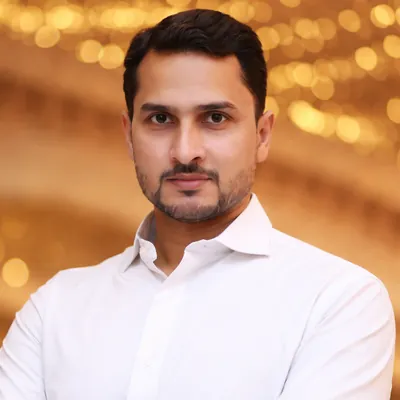
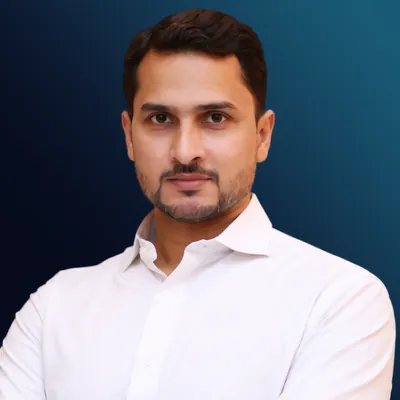
Swap headshot to navy-gradient version (?v=2 cache-bust); replace Fortune 500 claims with neutral wording

diff --git a/blog-post-2.html b/blog-post-2.html
@@ -69,7 +69,7 @@
    "alternateName": "Syed Masood Raza Kazmi",
    "jobTitle": "IAM Architect",
    "url": "https://identityfrontline.com/about/masood-raza/",
-   "image": "https://identityfrontline.com/assets/img/masood-raza-800.jpg",
+   "image": "https://identityfrontline.com/assets/img/masood-raza-800.jpg?v=2",
    "sameAs": [
     "https://www.linkedin.com/in/masoodrazaa",
     "https://x.com/masoodrazaaa",
@@ -292,8 +292,8 @@ img.author-photo{object-fit:cover;padding:0;display:block;background:#0e1730}
 <header class="post-hero">
   <div class="post-meta-row"><span class="post-cat">Hands-On Lab</span><span class="post-date">June 2026</span><span class="post-read">25 min read</span></div>
   <h1>Build Your IAM Homelab<br><em>For Free: The Complete Guide</em></h1>
-  <p class="post-subtitle">Deploy Active Directory, connect it to Entra ID, configure Conditional Access and MFA, and build the exact hybrid identity environment that Fortune 500 companies run — all on a free Azure account. This is the lab that gets you hired.</p>
-  <div class="author-row"><img class="author-avatar author-photo" src="/assets/img/masood-raza-128.webp" width="44" height="44" alt="Masood Raza" decoding="async"><div class="author-info"><a class="author-name" href="/about/masood-raza/" rel="author">By Masood Raza</a><span class="author-title">IAM Architect · 24+ years · Fortune 500 SME</span></div></div>
+  <p class="post-subtitle">Deploy Active Directory, connect it to Entra ID, configure Conditional Access and MFA, and build the same hybrid identity pattern that enterprises run in production — all on a free Azure account. This is the lab that gets you hired.</p>
+  <div class="author-row"><img class="author-avatar author-photo" src="/assets/img/masood-raza-128.webp?v=2" width="44" height="44" alt="Masood Raza" decoding="async"><div class="author-info"><a class="author-name" href="/about/masood-raza/" rel="author">By Masood Raza</a><span class="author-title">IAM Architect · 24+ years · Microsoft Entra ID focus</span></div></div>
 </header>
 
 <div class="post-layout">
@@ -301,7 +301,7 @@ img.author-photo{object-fit:cover;padding:0;display:block;background:#0e1730}
 
 <p class="lead">In my <a href="blog-post-1.html" style="color:var(--teal)">first post</a>, I told you to "deploy Active Directory in your lab." I did not show you how. This post fixes that.</p>
 
-<p>What you are about to build is not a toy. It is a scaled-down version of the exact hybrid identity architecture that I have deployed for Fortune 500 companies — an on-premises Active Directory domain synchronised to Microsoft Entra ID, with Conditional Access, MFA, and user lifecycle management.</p>
+<p>What you are about to build is not a toy. It is a scaled-down version of the hybrid identity architecture that I have deployed in enterprise environments — an on-premises Active Directory domain synchronised to Microsoft Entra ID, with Conditional Access, MFA, and user lifecycle management.</p>
 
 <p>The difference? You are building it for free. Everything in this guide uses either free Azure credits, free evaluation licences, or permanently free tiers.</p>
 
@@ -574,7 +574,7 @@ Add-ADGroupMember -Identity "SG-Cloud-Admins" -Members "psharma", "dlee"</div>
 
 <div class="pull-quote">"The lab is where theory becomes muscle memory. When an interviewer asks 'Have you configured Conditional Access?' your answer is not 'I studied it.' Your answer is 'I built it.'"</div>
 
-<p>Go build it. The Azure free account takes 5 minutes. Your first domain controller takes 30 minutes. By tonight, you can have a working hybrid identity environment that matches what Fortune 500 companies run.</p>
+<p>Go build it. The Azure free account takes 5 minutes. Your first domain controller takes 30 minutes. By tonight, you can have a working hybrid identity environment that mirrors what enterprises run in production.</p>
 
 <p><strong>That is not a hobby project. That is a career.</strong></p>
 <aside class="learn-box" aria-label="Further reading on Microsoft Learn"><div class="learn-box-label">Learn more on Microsoft Learn</div><ul><li><a href="https://learn.microsoft.com/en-us/entra/identity/hybrid/connect/whatis-azure-ad-connect" target="_blank" rel="noopener">What is Microsoft Entra Connect?</a></li><li><a href="https://learn.microsoft.com/en-us/entra/identity/conditional-access/overview" target="_blank" rel="noopener">What is Conditional Access?</a></li><li><a href="https://learn.microsoft.com/en-us/entra/identity/authentication/tutorial-enable-azure-mfa" target="_blank" rel="noopener">Tutorial: Secure user sign-in events with Microsoft Entra multifactor authentication</a></li><li><a href="https://learn.microsoft.com/en-us/entra/identity/authentication/tutorial-enable-sspr" target="_blank" rel="noopener">Tutorial: Enable self-service password reset</a></li></ul><p class="learn-box-note">Official Microsoft documentation for the features used in this guide.</p></aside>
@@ -606,7 +606,7 @@ Add-ADGroupMember -Identity "SG-Cloud-Admins" -Members "psharma", "dlee"</div>
 
 <div class="sidebar-widget"><div class="sidebar-widget-title">Start here first</div><div class="sidebar-widget-body"><a href="blog-post-1.html" style="display:block;text-decoration:none;color:var(--ink);font-size:13px;font-weight:500;margin-bottom:6px">No Job, No Experience, No Problem: How to Break Into IAM in 2026</a><span style="font-family:'JetBrains Mono',monospace;font-size:9px;letter-spacing:.1em;text-transform:uppercase;color:var(--muted)">Career Guide · 18 min</span></div></div>
 
-<div class="sidebar-widget"><div class="sidebar-widget-title">About the author</div><div style="padding:16px"><img class="author-avatar author-photo" src="/assets/img/masood-raza-128.webp" width="52" height="52" alt="Masood Raza" loading="lazy" decoding="async" style="width:52px;height:52px;margin-bottom:12px"><div style="font-size:14px;font-weight:500;color:var(--ink);margin-bottom:2px">Syed Masood Raza</div><div style="font-family:'JetBrains Mono',monospace;font-size:9px;letter-spacing:.1em;text-transform:uppercase;color:var(--teal);margin-bottom:10px">IAM Architect · Cybersecurity SME</div><p style="font-size:12px;font-weight:300;color:var(--muted);line-height:1.6">24+ years building hybrid identity for Fortune 500 companies. AZ-305, SC-300, ISC2 CC, MCT.</p><a class="author-more" href="/about/masood-raza/">Full bio &amp; links &rarr;</a></div></div>
+<div class="sidebar-widget"><div class="sidebar-widget-title">About the author</div><div style="padding:16px"><img class="author-avatar author-photo" src="/assets/img/masood-raza-128.webp?v=2" width="52" height="52" alt="Masood Raza" loading="lazy" decoding="async" style="width:52px;height:52px;margin-bottom:12px"><div style="font-size:14px;font-weight:500;color:var(--ink);margin-bottom:2px">Syed Masood Raza</div><div style="font-family:'JetBrains Mono',monospace;font-size:9px;letter-spacing:.1em;text-transform:uppercase;color:var(--teal);margin-bottom:10px">IAM Architect · Cybersecurity SME</div><p style="font-size:12px;font-weight:300;color:var(--muted);line-height:1.6">24+ years building hybrid identity for enterprises. AZ-305, SC-300, ISC2 CC, MCT.</p><a class="author-more" href="/about/masood-raza/">Full bio &amp; links &rarr;</a></div></div>
 </aside>
 </div>
 

diff --git a/blog-post-1.html b/blog-post-1.html
@@ -69,7 +69,7 @@
    "alternateName": "Syed Masood Raza Kazmi",
    "jobTitle": "IAM Architect",
    "url": "https://identityfrontline.com/about/masood-raza/",
-   "image": "https://identityfrontline.com/assets/img/masood-raza-800.jpg",
+   "image": "https://identityfrontline.com/assets/img/masood-raza-800.jpg?v=2",
    "sameAs": [
     "https://www.linkedin.com/in/masoodrazaa",
     "https://x.com/masoodrazaaa",
@@ -680,10 +680,10 @@ img.author-photo{object-fit:cover;padding:0;display:block;background:#0e1730}
   <h1>No Job, No Experience, No Problem:<br><em>How to Break Into IAM in 2026</em></h1>
   <p class="post-subtitle">A practical, zero-fluff guide for career changers, recent graduates, and IT generalists who want to build a real, high-paying career in Identity and Access Management — starting from exactly where they are right now.</p>
   <div class="author-row">
-    <img class="author-avatar author-photo" src="/assets/img/masood-raza-128.webp" width="44" height="44" alt="Masood Raza" decoding="async">
+    <img class="author-avatar author-photo" src="/assets/img/masood-raza-128.webp?v=2" width="44" height="44" alt="Masood Raza" decoding="async">
     <div class="author-info">
       <a class="author-name" href="/about/masood-raza/" rel="author">By Masood Raza</a>
-      <span class="author-title">IAM Architect · 24+ years · Fortune 500 SME</span>
+      <span class="author-title">IAM Architect · 24+ years · Microsoft Entra ID focus</span>
     </div>
   </div>
 </header>
@@ -698,7 +698,7 @@ img.author-photo{object-fit:cover;padding:0;display:block;background:#0e1730}
 
     <p>If you are reading this because you are unemployed, under-employed, or stuck in an IT role that is going nowhere — you are in exactly the right place at exactly the right time. Identity and Access Management is one of the fastest-growing and most under-staffed specialisations in all of enterprise technology. Companies are desperate for people who understand it. And unlike most high-paying tech careers, IAM does not require a computer science degree, years of software development, or a stack of expensive certifications before you can get your first role.</p>
 
-    <p>I have spent 24 years building and securing identity infrastructure for organisations ranging from regional businesses to Fortune 500 companies. In that time, I have interviewed and mentored dozens of IAM professionals. The single most common thing I hear from people who successfully broke into the field is: <strong>"I had no idea this was even possible for someone like me."</strong></p>
+    <p>I have spent 24 years building and securing identity infrastructure for organisations ranging from regional businesses to large enterprises. In that time, I have interviewed and mentored dozens of IAM professionals. The single most common thing I hear from people who successfully broke into the field is: <strong>"I had no idea this was even possible for someone like me."</strong></p>
 
     <p>This post is for you. By the end of it, you will understand exactly what IAM is, why the market is so hungry for talent, what the realistic entry paths look like, and — most importantly — what you should do in the next 90 days to position yourself for your first IAM role.</p>
 
@@ -911,7 +911,7 @@ img.author-photo{object-fit:cover;padding:0;display:block;background:#0e1730}
     <div class="pull-quote">"The window of entry is open. In 12–18 months, it may be narrower as more people discover what you are reading right now. The best time to start was two years ago. The second best time is today."</div>
 <aside class="learn-box" aria-label="Further reading on Microsoft Learn"><div class="learn-box-label">Learn more on Microsoft Learn</div><ul><li><a href="https://learn.microsoft.com/en-us/entra/fundamentals/what-is-entra" target="_blank" rel="noopener">What is Microsoft Entra?</a></li><li><a href="https://learn.microsoft.com/en-us/training/paths/describe-capabilities-of-microsoft-identity-access/" target="_blank" rel="noopener">Training path: Describe the capabilities of Microsoft Entra ID (SC-900)</a></li><li><a href="https://learn.microsoft.com/en-us/credentials/certifications/security-compliance-and-identity-fundamentals/" target="_blank" rel="noopener">Microsoft Certified: Security, Compliance, and Identity Fundamentals</a></li><li><a href="https://learn.microsoft.com/en-us/credentials/certifications/identity-and-access-administrator/" target="_blank" rel="noopener">Microsoft Certified: Identity and Access Administrator Associate (SC-300)</a></li></ul><p class="learn-box-note">Official Microsoft documentation for the features used in this guide.</p></aside>
     <p>— <strong>Masood</strong></p>
-    <p style="font-size:13px;color:var(--muted);">IAM Architect · SME to Fortune 500 companies · identityfrontline.com</p>
+    <p style="font-size:13px;color:var(--muted);">IAM Architect · 24+ years · identityfrontline.com</p>
 
   </article>
 
@@ -965,10 +965,10 @@ img.author-photo{object-fit:cover;padding:0;display:block;background:#0e1730}
     <div class="sidebar-widget">
       <div class="sidebar-widget-title">About the author</div>
       <div class="author-widget">
-        <img class="author-widget-avatar author-photo" src="/assets/img/masood-raza-128.webp" width="52" height="52" alt="Masood Raza" loading="lazy" decoding="async">
+        <img class="author-widget-avatar author-photo" src="/assets/img/masood-raza-128.webp?v=2" width="52" height="52" alt="Masood Raza" loading="lazy" decoding="async">
         <div class="author-widget-name">Syed Masood Raza</div>
         <div class="author-widget-role">IAM Architect · Cybersecurity SME</div>
-        <p class="author-widget-bio">24+ years securing identity infrastructure for Fortune 500 companies across North America, Europe, and the Gulf. AZ-305, SC-300, ISC2 CC, MCT.</p><a class="author-more" href="/about/masood-raza/">Full bio &amp; links &rarr;</a>
+        <p class="author-widget-bio">24+ years securing enterprise identity infrastructure across North America, Europe, and the Gulf. AZ-305, SC-300, ISC2 CC, MCT.</p><a class="author-more" href="/about/masood-raza/">Full bio &amp; links &rarr;</a>
       </div>
     </div>
 

diff --git a/about.html b/about.html
@@ -50,7 +50,7 @@
    "alternateName": "Syed Masood Raza Kazmi",
    "jobTitle": "IAM Architect",
    "url": "https://identityfrontline.com/about/masood-raza/",
-   "image": "https://identityfrontline.com/assets/img/masood-raza-800.jpg",
+   "image": "https://identityfrontline.com/assets/img/masood-raza-800.jpg?v=2",
    "sameAs": [
     "https://www.linkedin.com/in/masoodrazaa",
     "https://x.com/masoodrazaaa",
@@ -588,15 +588,15 @@ body {
 }
 .author-bio p strong { color: #fff; font-weight: 500; }
 
-/* Fortune 500 bar */
-.f500-bar {
+/* Experience bar */
+.exp-bar {
   margin: 32px 0;
   padding: 22px 24px;
   background: rgba(139,0,85,0.08);
   border: 1px solid rgba(139,0,85,0.2);
   border-radius: 4px;
 }
-.f500-bar-label {
+.exp-bar-label {
   font-family: 'JetBrains Mono', monospace;
   font-size: 9px;
   letter-spacing: 0.16em;
@@ -604,14 +604,14 @@ body {
   color: var(--teal);
   margin-bottom: 10px;
 }
-.f500-bar p {
+.exp-bar p {
   font-size: 15px;
   font-weight: 300;
   color: rgba(255,255,255,0.72) !important;
   line-height: 1.65 !important;
   margin: 0 !important;
 }
-.f500-bar p strong { color: #fff !important; }
+.exp-bar p strong { color: #fff !important; }
 
 /* Skills grid */
 .skills-section {
@@ -897,8 +897,8 @@ footer {
   .cert-item { font-size: 9px; padding: 5px 10px; }
   .author-h2 { font-size: clamp(30px, 8vw, 44px); }
   .author-bio p { font-size: 15px; }
-  .f500-bar { padding: 16px 18px; }
-  .f500-bar p { font-size: 14px !important; }
+  .exp-bar { padding: 16px 18px; }
+  .exp-bar p { font-size: 14px !important; }
 
   /* Skills */
   .skills-section { padding: 56px 20px; }
@@ -1016,7 +1016,7 @@ p.if-sub-note.if-sub-note{font:400 12px/1.5 'DM Sans',sans-serif;color:rgba(255,
       <span class="accent">identity.</span>
     </h1>
     <p class="hero-lead">
-      Practitioner-grade writing on IAM, Zero Trust, and enterprise cybersecurity — grounded in 24+ years of hands-on work protecting the identity infrastructure of the world's largest organisations.
+      Practitioner-grade writing on IAM, Zero Trust, and enterprise cybersecurity — grounded in 24+ years of hands-on work protecting enterprise identity infrastructure.
     </p>
     <a href="#mission" class="hero-cta">
       Read the mission
@@ -1071,8 +1071,8 @@ p.if-sub-note.if-sub-note{font:400 12px/1.5 'DM Sans',sans-serif;color:rgba(255,
         <span class="h-stat-l">Years in enterprise IT</span>
       </div>
       <div class="h-stat">
-        <span class="h-stat-n">F500</span>
-        <span class="h-stat-l">Clients served</span>
+        <span class="h-stat-n">Entra</span>
+        <span class="h-stat-l">Microsoft Entra ID focus</span>
       </div>
       <div class="h-stat">
         <span class="h-stat-n">8</span>
@@ -1157,7 +1157,7 @@ p.if-sub-note.if-sub-note{font:400 12px/1.5 'DM Sans',sans-serif;color:rgba(255,
 <section class="author-section reveal" id="about">
   <div class="author-inner">
     <div class="author-card">
-      <picture><source type="image/webp" srcset="/assets/img/masood-raza-400.webp 400w, /assets/img/masood-raza-800.webp 800w" sizes="180px"><img class="avatar-ring author-photo" src="/assets/img/masood-raza-400.jpg" srcset="/assets/img/masood-raza-400.jpg 400w, /assets/img/masood-raza-800.jpg 800w" sizes="180px" width="180" height="180" alt="Masood Raza" loading="lazy" decoding="async"></picture>
+      <picture><source type="image/webp" srcset="/assets/img/masood-raza-400.webp?v=2 400w, /assets/img/masood-raza-800.webp?v=2 800w" sizes="180px"><img class="avatar-ring author-photo" src="/assets/img/masood-raza-400.jpg?v=2" srcset="/assets/img/masood-raza-400.jpg?v=2 400w, /assets/img/masood-raza-800.jpg?v=2 800w" sizes="180px" width="180" height="180" alt="Masood Raza" loading="lazy" decoding="async"></picture>
       <p class="a-name">Syed Masood<br>Raza Kazmi</p>
       <p class="a-role">IAM Architect · Cybersecurity SME</p>
       <div class="cert-stack">
@@ -1180,10 +1180,10 @@ p.if-sub-note.if-sub-note{font:400 12px/1.5 'DM Sans',sans-serif;color:rgba(255,
           I am an <strong>Identity & Access Management Architect and Cybersecurity Subject Matter Expert</strong> with over two decades of hands-on experience securing the identity infrastructure of enterprise organisations across North America, Europe, and the Gulf region.
         </p>
 
-        <div class="f500-bar">
-          <p class="f500-bar-label">Fortune 500 experience</p>
+        <div class="exp-bar">
+          <p class="exp-bar-label">Enterprise experience</p>
           <p>
-            Throughout my career I have served as a <strong>trusted SME and technical advisor to Fortune 500 companies</strong>, leading high-stakes IAM and cloud security programmes at a scale that few practitioners encounter. These engagements have spanned financial services, healthcare, energy, and technology sectors — industries where identity failures carry regulatory, financial, and reputational consequences that are simply not acceptable.
+            Throughout my career I have worked as a <strong>subject-matter expert and technical advisor on enterprise IAM and cloud security programmes</strong>. These engagements have spanned financial services, healthcare, energy, and technology sectors — industries where identity failures carry regulatory, financial, and reputational consequences that are simply not acceptable.
           </p>
         </div>
 

diff --git a/blog-post-3.html b/blog-post-3.html
@@ -69,7 +69,7 @@
    "alternateName": "Syed Masood Raza Kazmi",
    "jobTitle": "IAM Architect",
    "url": "https://identityfrontline.com/about/masood-raza/",
-   "image": "https://identityfrontline.com/assets/img/masood-raza-800.jpg",
+   "image": "https://identityfrontline.com/assets/img/masood-raza-800.jpg?v=2",
    "sameAs": [
     "https://www.linkedin.com/in/masoodrazaa",
     "https://x.com/masoodrazaaa",
@@ -305,7 +305,7 @@ img.author-photo{object-fit:cover;padding:0;display:block;background:#0e1730}
   <div class="post-meta-row"><span class="post-cat">Hands-On Lab</span><span class="post-date">July 2026</span><span class="post-read">20 min read</span></div>
   <h1>Entra ID SSO and SCIM Provisioning<br><em>to AWS IAM Identity Center</em></h1>
   <p class="post-subtitle">Your homelab users can now sign into AWS with their Entra ID credentials. SAML-based Single Sign-On, user assignment, and SCIM provisioning &mdash; all configured step-by-step. Total cost: still $0.</p>
-  <div class="author-row"><img class="author-avatar author-photo" src="/assets/img/masood-raza-128.webp" width="44" height="44" alt="Masood Raza" decoding="async"><div class="author-info"><a class="author-name" href="/about/masood-raza/" rel="author">By Masood Raza</a><span class="author-title">IAM Architect &middot; 24+ years &middot; Fortune 500 SME</span></div></div>
+  <div class="author-row"><img class="author-avatar author-photo" src="/assets/img/masood-raza-128.webp?v=2" width="44" height="44" alt="Masood Raza" decoding="async"><div class="author-info"><a class="author-name" href="/about/masood-raza/" rel="author">By Masood Raza</a><span class="author-title">IAM Architect &middot; 24+ years &middot; Microsoft Entra ID focus</span></div></div>
 </header>
 
 <div class="post-layout">
@@ -315,7 +315,7 @@ img.author-photo{object-fit:cover;padding:0;display:block;background:#0e1730}
 
 <p>In <a href="blog-post-2.html" style="color:var(--teal)">Post 2</a>, you built a hybrid identity environment &mdash; Active Directory synced to Entra ID via Entra Connect, with Conditional Access and MFA enforced. That was the foundation.</p>
 
-<p>This post adds the feature that enterprise IAM teams configure most often: <strong>Single Sign-On (SSO)</strong>. You will configure SAML-based SSO between your Entra ID tenant and AWS IAM Identity Center, assign your homelab users, and test federated authentication &mdash; the exact workflow I have configured hundreds of times for Fortune 500 clients.</p>
+<p>This post adds the feature that enterprise IAM teams configure most often: <strong>Single Sign-On (SSO)</strong>. You will configure SAML-based SSO between your Entra ID tenant and AWS IAM Identity Center, assign your homelab users, and test federated authentication &mdash; the exact workflow I have configured hundreds of times in enterprise environments.</p>
 
 <p><strong>Why AWS?</strong> Because it is free (AWS free tier), it is the second most common cloud platform after Azure, and configuring cross-cloud SSO between Microsoft and AWS is one of the most sought-after skills in enterprise IAM. This single lab project tells interviewers: &ldquo;I understand federated identity across cloud providers.&rdquo;</p>
 
@@ -565,7 +565,7 @@ lastName:                           user.surname</div>
 <span style="font-family:'JetBrains Mono',monospace;font-size:9px;letter-spacing:.1em;text-transform:uppercase;color:var(--muted)">Career Guide &middot; 18 min</span>
 </div></div>
 
-<div class="sidebar-widget"><div class="sidebar-widget-title">About the author</div><div style="padding:16px"><img class="author-avatar author-photo" src="/assets/img/masood-raza-128.webp" width="52" height="52" alt="Masood Raza" loading="lazy" decoding="async" style="width:52px;height:52px;margin-bottom:12px"><div style="font-size:14px;font-weight:500;color:var(--ink);margin-bottom:2px">Syed Masood Raza</div><div style="font-family:'JetBrains Mono',monospace;font-size:9px;letter-spacing:.1em;text-transform:uppercase;color:var(--teal);margin-bottom:10px">IAM Architect &middot; Cybersecurity SME</div><p style="font-size:12px;font-weight:300;color:var(--muted);line-height:1.6">24+ years building hybrid identity for Fortune 500 companies. Configured SSO for 700+ enterprise applications using SAML, OAuth, and OIDC.</p><a class="author-more" href="/about/masood-raza/">Full bio &amp; links &rarr;</a></div></div>
+<div class="sidebar-widget"><div class="sidebar-widget-title">About the author</div><div style="padding:16px"><img class="author-avatar author-photo" src="/assets/img/masood-raza-128.webp?v=2" width="52" height="52" alt="Masood Raza" loading="lazy" decoding="async" style="width:52px;height:52px;margin-bottom:12px"><div style="font-size:14px;font-weight:500;color:var(--ink);margin-bottom:2px">Syed Masood Raza</div><div style="font-family:'JetBrains Mono',monospace;font-size:9px;letter-spacing:.1em;text-transform:uppercase;color:var(--teal);margin-bottom:10px">IAM Architect &middot; Cybersecurity SME</div><p style="font-size:12px;font-weight:300;color:var(--muted);line-height:1.6">24+ years building hybrid identity for enterprises. Configured SSO for 700+ enterprise applications using SAML, OAuth, and OIDC.</p><a class="author-more" href="/about/masood-raza/">Full bio &amp; links &rarr;</a></div></div>
 </aside>
 </div>
 

diff --git a/blog-post-5.html b/blog-post-5.html
@@ -69,7 +69,7 @@
    "alternateName": "Syed Masood Raza Kazmi",
    "jobTitle": "IAM Architect",
    "url": "https://identityfrontline.com/about/masood-raza/",
-   "image": "https://identityfrontline.com/assets/img/masood-raza-800.jpg",
+   "image": "https://identityfrontline.com/assets/img/masood-raza-800.jpg?v=2",
    "sameAs": [
     "https://www.linkedin.com/in/masoodrazaa",
     "https://x.com/masoodrazaaa",
@@ -319,7 +319,7 @@ img.author-photo{object-fit:cover;padding:0;display:block;background:#0e1730}
   <div class="post-meta-row"><span class="post-cat" style="color:#9B59B6;background:rgba(155,89,182,.12)">Automation</span><span class="post-date">September 2026</span><span class="post-read">20 min read</span></div>
   <h1>Automate the Leaver<br><em>Offboarding Without the Loose Ends</em></h1>
   <p class="post-subtitle">Disabling the account in Active Directory feels like offboarding. It is not. The SSO session can still be alive, the SCIM-synced AWS access can still be active, and the mailbox just goes silent. Build the n8n workflow that closes those gaps automatically, starting within a minute of the disable.</p>
-  <div class="author-row"><img class="author-avatar author-photo" src="/assets/img/masood-raza-128.webp" width="44" height="44" alt="Masood Raza" decoding="async"><div class="author-info"><a class="author-name" href="/about/masood-raza/" rel="author">By Masood Raza</a><span class="author-title">IAM Architect &middot; AI + Security Automation &middot; Fortune 500 SME</span></div></div>
+  <div class="author-row"><img class="author-avatar author-photo" src="/assets/img/masood-raza-128.webp?v=2" width="44" height="44" alt="Masood Raza" decoding="async"><div class="author-info"><a class="author-name" href="/about/masood-raza/" rel="author">By Masood Raza</a><span class="author-title">IAM Architect &middot; 24+ years &middot; Identity automation</span></div></div>
 </header>
 
 <div class="post-layout">
@@ -732,7 +732,7 @@ non-admin role).</div>
 <span style="font-family:'JetBrains Mono',monospace;font-size:9px;letter-spacing:.1em;text-transform:uppercase;color:var(--muted)">Hands-On Lab &middot; 25 min</span>
 </div></div>
 
-<div class="sidebar-widget"><div class="sidebar-widget-title">About the author</div><div style="padding:16px"><img class="author-avatar author-photo" src="/assets/img/masood-raza-128.webp" width="52" height="52" alt="Masood Raza" loading="lazy" decoding="async" style="width:52px;height:52px;margin-bottom:12px"><div style="font-size:14px;font-weight:500;color:var(--ink);margin-bottom:2px">Syed Masood Raza</div><div style="font-family:'JetBrains Mono',monospace;font-size:9px;letter-spacing:.1em;text-transform:uppercase;color:var(--teal);margin-bottom:10px">IAM Architect &middot; AI + Automation</div><p style="font-size:12px;font-weight:300;color:var(--muted);line-height:1.6">24+ years in IAM. Builds n8n automation workflows with AI agents for Fortune 500 companies. 500+ automations deployed.</p><a class="author-more" href="/about/masood-raza/">Full bio &amp; links &rarr;</a></div></div>
+<div class="sidebar-widget"><div class="sidebar-widget-title">About the author</div><div style="padding:16px"><img class="author-avatar author-photo" src="/assets/img/masood-raza-128.webp?v=2" width="52" height="52" alt="Masood Raza" loading="lazy" decoding="async" style="width:52px;height:52px;margin-bottom:12px"><div style="font-size:14px;font-weight:500;color:var(--ink);margin-bottom:2px">Syed Masood Raza</div><div style="font-family:'JetBrains Mono',monospace;font-size:9px;letter-spacing:.1em;text-transform:uppercase;color:var(--teal);margin-bottom:10px">IAM Architect &middot; AI + Automation</div><p style="font-size:12px;font-weight:300;color:var(--muted);line-height:1.6">24+ years in IAM. Builds n8n automation workflows with AI agents for identity teams. 500+ automations deployed.</p><a class="author-more" href="/about/masood-raza/">Full bio &amp; links &rarr;</a></div></div>
 </aside>
 </div>
 

diff --git a/blog-post-4.html b/blog-post-4.html
@@ -69,7 +69,7 @@
    "alternateName": "Syed Masood Raza Kazmi",
    "jobTitle": "IAM Architect",
    "url": "https://identityfrontline.com/about/masood-raza/",
-   "image": "https://identityfrontline.com/assets/img/masood-raza-800.jpg",
+   "image": "https://identityfrontline.com/assets/img/masood-raza-800.jpg?v=2",
    "sameAs": [
     "https://www.linkedin.com/in/masoodrazaa",
     "https://x.com/masoodrazaaa",
@@ -317,7 +317,7 @@ img.author-photo{object-fit:cover;padding:0;display:block;background:#0e1730}
   <div class="post-meta-row"><span class="post-cat" style="color:#9B59B6;background:rgba(155,89,182,.12)">Automation</span><span class="post-date">August 2026</span><span class="post-read">22 min read</span></div>
   <h1>Automate User Lifecycle<br><em>Build Your First n8n Workflow for IAM</em></h1>
   <p class="post-subtitle">Create a user in Active Directory and watch everything happen automatically &mdash; Entra ID sync, welcome email, Teams notification, manager approval, and audit log. Your first IAM automation, powered by n8n. Free.</p>
-  <div class="author-row"><img class="author-avatar author-photo" src="/assets/img/masood-raza-128.webp" width="44" height="44" alt="Masood Raza" decoding="async"><div class="author-info"><a class="author-name" href="/about/masood-raza/" rel="author">By Masood Raza</a><span class="author-title">IAM Architect &middot; AI + Security Automation &middot; Fortune 500 SME</span></div></div>
+  <div class="author-row"><img class="author-avatar author-photo" src="/assets/img/masood-raza-128.webp?v=2" width="44" height="44" alt="Masood Raza" decoding="async"><div class="author-info"><a class="author-name" href="/about/masood-raza/" rel="author">By Masood Raza</a><span class="author-title">IAM Architect &middot; 24+ years &middot; Identity automation</span></div></div>
 </header>
 
 <div class="post-layout">
@@ -699,7 +699,7 @@ Example: ["SG-VPN-Users", "SG-MFA-Enforced"]</div>
 <span style="font-family:'JetBrains Mono',monospace;font-size:9px;letter-spacing:.1em;text-transform:uppercase;color:var(--muted)">Career Guide &middot; 18 min</span>
 </div></div>
 
-<div class="sidebar-widget"><div class="sidebar-widget-title">About the author</div><div style="padding:16px"><img class="author-avatar author-photo" src="/assets/img/masood-raza-128.webp" width="52" height="52" alt="Masood Raza" loading="lazy" decoding="async" style="width:52px;height:52px;margin-bottom:12px"><div style="font-size:14px;font-weight:500;color:var(--ink);margin-bottom:2px">Syed Masood Raza</div><div style="font-family:'JetBrains Mono',monospace;font-size:9px;letter-spacing:.1em;text-transform:uppercase;color:var(--teal);margin-bottom:10px">IAM Architect &middot; AI + Automation</div><p style="font-size:12px;font-weight:300;color:var(--muted);line-height:1.6">24+ years in IAM. Builds n8n automation workflows with AI agents for Fortune 500 companies. 500+ automations deployed.</p><a class="author-more" href="/about/masood-raza/">Full bio &amp; links &rarr;</a></div></div>
+<div class="sidebar-widget"><div class="sidebar-widget-title">About the author</div><div style="padding:16px"><img class="author-avatar author-photo" src="/assets/img/masood-raza-128.webp?v=2" width="52" height="52" alt="Masood Raza" loading="lazy" decoding="async" style="width:52px;height:52px;margin-bottom:12px"><div style="font-size:14px;font-weight:500;color:var(--ink);margin-bottom:2px">Syed Masood Raza</div><div style="font-family:'JetBrains Mono',monospace;font-size:9px;letter-spacing:.1em;text-transform:uppercase;color:var(--teal);margin-bottom:10px">IAM Architect &middot; AI + Automation</div><p style="font-size:12px;font-weight:300;color:var(--muted);line-height:1.6">24+ years in IAM. Builds n8n automation workflows with AI agents for identity teams. 500+ automations deployed.</p><a class="author-more" href="/about/masood-raza/">Full bio &amp; links &rarr;</a></div></div>
 </aside>
 </div>
 

diff --git a/about/masood-raza/index.html b/about/masood-raza/index.html
@@ -52,7 +52,7 @@
    "alternateName": "Syed Masood Raza Kazmi",
    "jobTitle": "IAM Architect",
    "url": "https://identityfrontline.com/about/masood-raza/",
-   "image": "https://identityfrontline.com/assets/img/masood-raza-800.jpg",
+   "image": "https://identityfrontline.com/assets/img/masood-raza-800.jpg?v=2",
    "sameAs": [
     "https://www.linkedin.com/in/masoodrazaa",
     "https://x.com/masoodrazaaa",
@@ -149,7 +149,7 @@ footer{background:var(--nav);padding:28px 52px;display:flex;align-items:center;j
   <h1>Masood Raza</h1>
   <!-- REVIEW(owner): bio below is a draft built from the existing About page. Confirm every line before merge. -->
   <div class="profile">
-    <picture><source type="image/webp" srcset="/assets/img/masood-raza-400.webp 400w, /assets/img/masood-raza-800.webp 800w" sizes="132px"><img class="photo" src="/assets/img/masood-raza-400.jpg" srcset="/assets/img/masood-raza-400.jpg 400w, /assets/img/masood-raza-800.jpg 800w" sizes="132px" width="132" height="132" alt="Masood Raza" loading="eager" decoding="async"></picture>
+    <picture><source type="image/webp" srcset="/assets/img/masood-raza-400.webp?v=2 400w, /assets/img/masood-raza-800.webp?v=2 800w" sizes="132px"><img class="photo" src="/assets/img/masood-raza-400.jpg?v=2" srcset="/assets/img/masood-raza-400.jpg?v=2 400w, /assets/img/masood-raza-800.jpg?v=2 800w" sizes="132px" width="132" height="132" alt="Masood Raza" loading="eager" decoding="async"></picture>
     <div class="profile-body">
       <p class="lede">Identity &amp; access practitioner, focused on Microsoft Entra ID.</p>
       <p>I'm Masood Raza (Syed Masood Raza Kazmi), an identity and access management practitioner with more than 24 years of hands-on experience in enterprise IT across North America, Europe and the Gulf region. Most of my work lives in Microsoft Entra ID: hybrid identity with Active Directory, Conditional Access and MFA, privileged access with PIM, single sign-on and SCIM provisioning to cloud apps, and automating the joiner-mover-leaver lifecycle.</p>

diff --git a/speaking.html b/speaking.html
@@ -52,7 +52,7 @@
    "alternateName": "Syed Masood Raza Kazmi",
    "jobTitle": "IAM Architect",
    "url": "https://identityfrontline.com/about/masood-raza/",
-   "image": "https://identityfrontline.com/assets/img/masood-raza-800.jpg",
+   "image": "https://identityfrontline.com/assets/img/masood-raza-800.jpg?v=2",
    "sameAs": [
     "https://www.linkedin.com/in/masoodrazaa",
     "https://x.com/masoodrazaaa",
@@ -167,7 +167,7 @@ footer{background:var(--nav);padding:28px 52px;display:flex;align-items:center;j
   <h2>Speaker bio</h2>
   <!-- REVIEW(owner): short third-person bio for event organisers. Confirm before merge. -->
   <div class="profile">
-    <picture><source type="image/webp" srcset="/assets/img/masood-raza-400.webp 400w, /assets/img/masood-raza-800.webp 800w" sizes="132px"><img class="photo" src="/assets/img/masood-raza-400.jpg" srcset="/assets/img/masood-raza-400.jpg 400w, /assets/img/masood-raza-800.jpg 800w" sizes="132px" width="132" height="132" alt="Masood Raza" loading="lazy" decoding="async"></picture>
+    <picture><source type="image/webp" srcset="/assets/img/masood-raza-400.webp?v=2 400w, /assets/img/masood-raza-800.webp?v=2 800w" sizes="132px"><img class="photo" src="/assets/img/masood-raza-400.jpg?v=2" srcset="/assets/img/masood-raza-400.jpg?v=2 400w, /assets/img/masood-raza-800.jpg?v=2 800w" sizes="132px" width="132" height="132" alt="Masood Raza" loading="lazy" decoding="async"></picture>
     <div class="profile-body">
       <p>Masood Raza is an identity and access management practitioner with more than 24 years of hands-on enterprise IT experience, focused on Microsoft Entra ID. He writes free, hands-on labs at Identity Frontline (identityfrontline.com) and builds free, open-source Microsoft 365 and Zero Trust assessment tools. He is a Microsoft Certified Trainer.</p>
       <ul class="links">

diff --git a/index.html b/index.html
@@ -67,7 +67,7 @@
    "alternateName": "Syed Masood Raza Kazmi",
    "jobTitle": "IAM Architect",
    "url": "https://identityfrontline.com/about/masood-raza/",
-   "image": "https://identityfrontline.com/assets/img/masood-raza-800.jpg",
+   "image": "https://identityfrontline.com/assets/img/masood-raza-800.jpg?v=2",
    "sameAs": [
     "https://www.linkedin.com/in/masoodrazaa",
     "https://x.com/masoodrazaaa",
